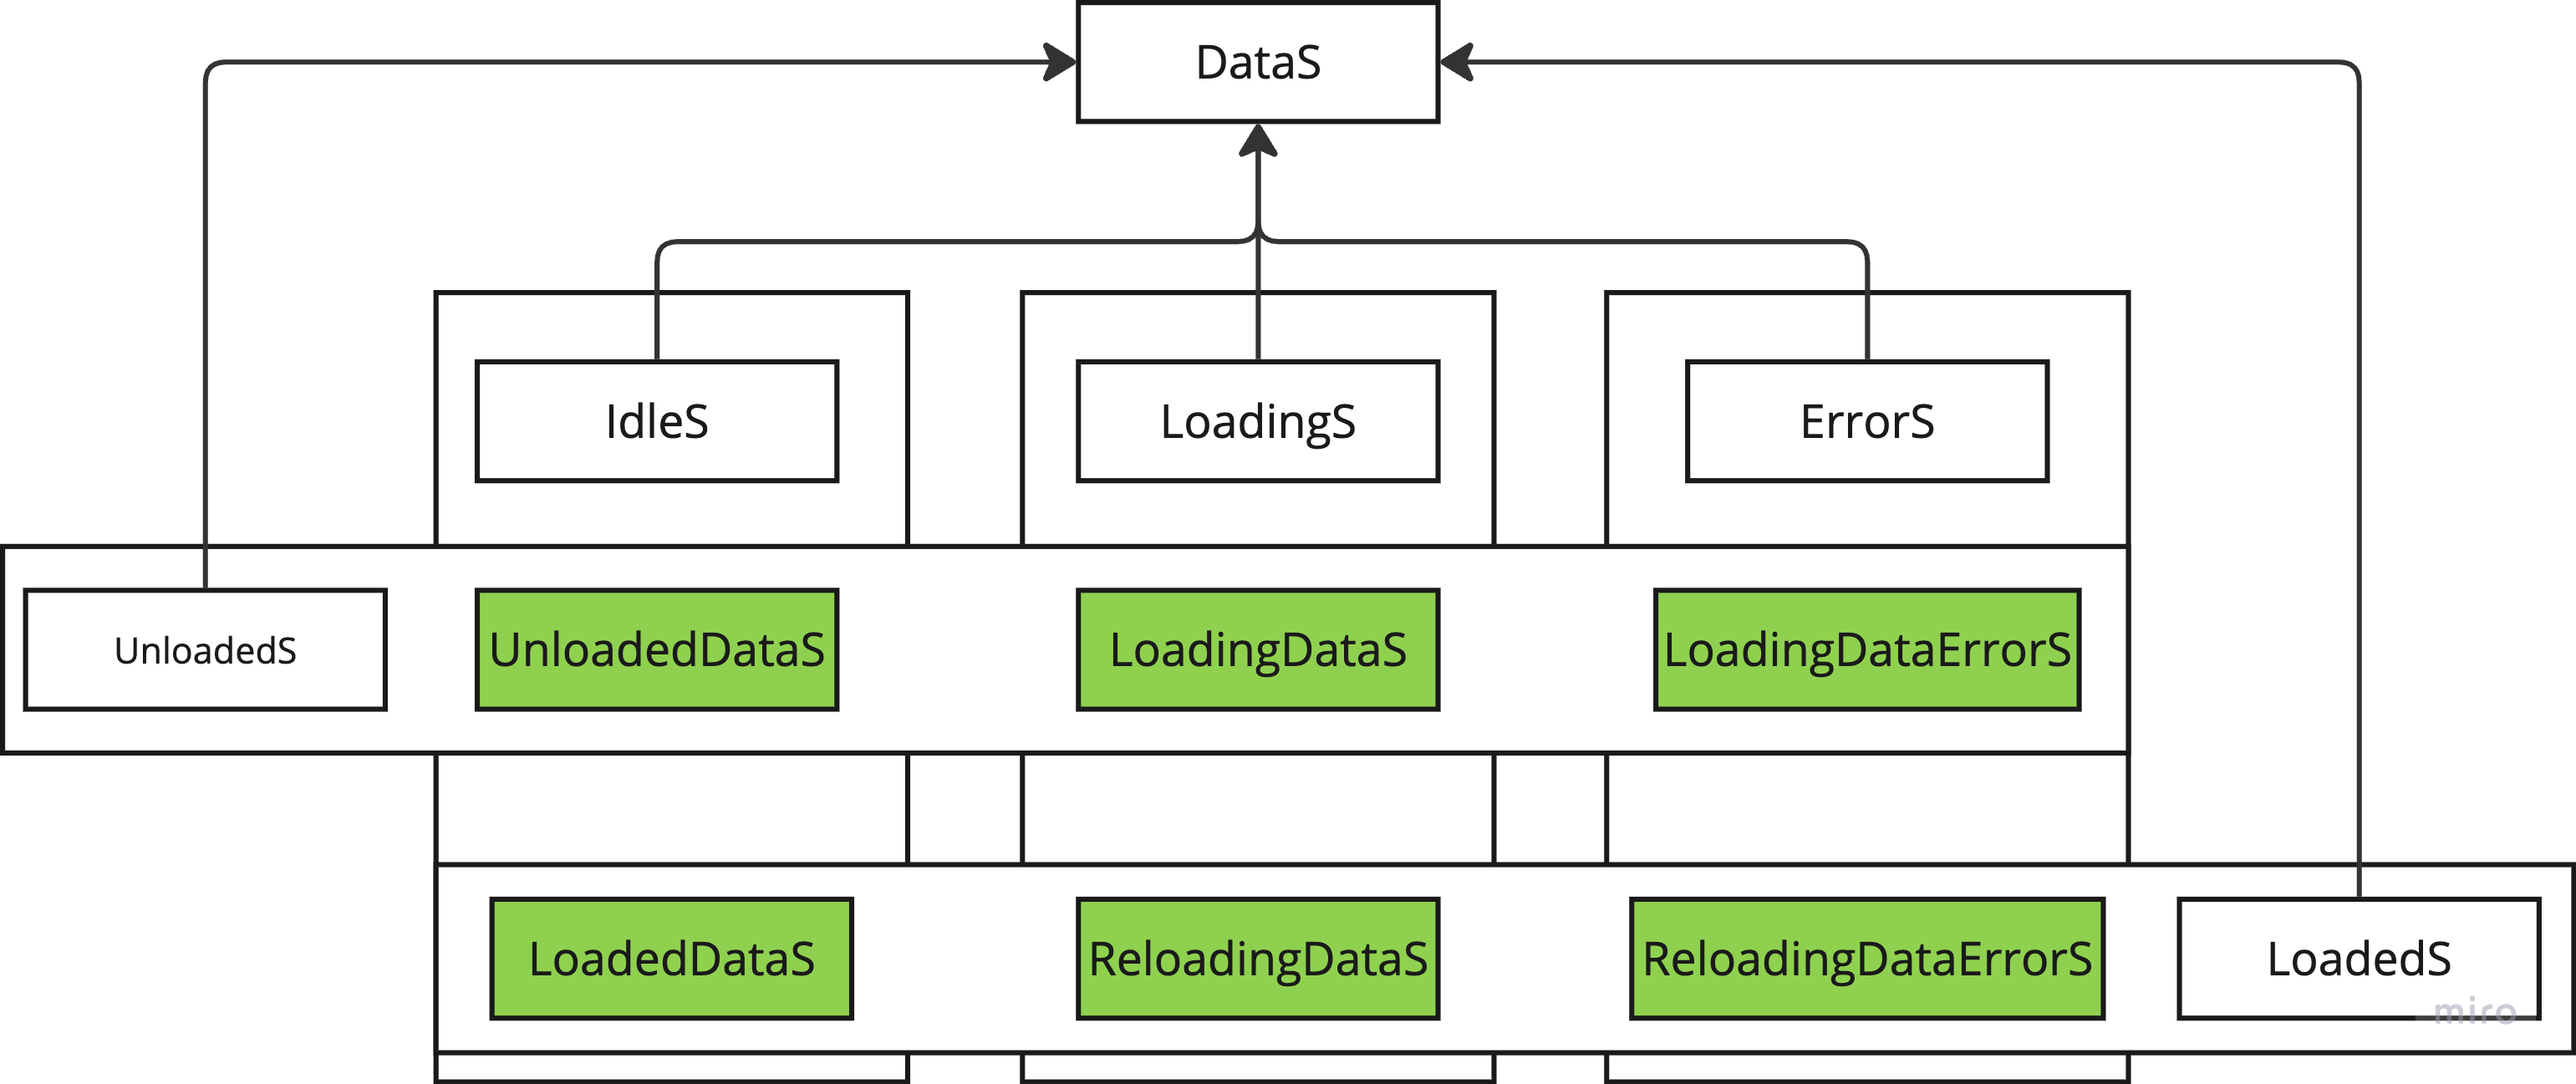
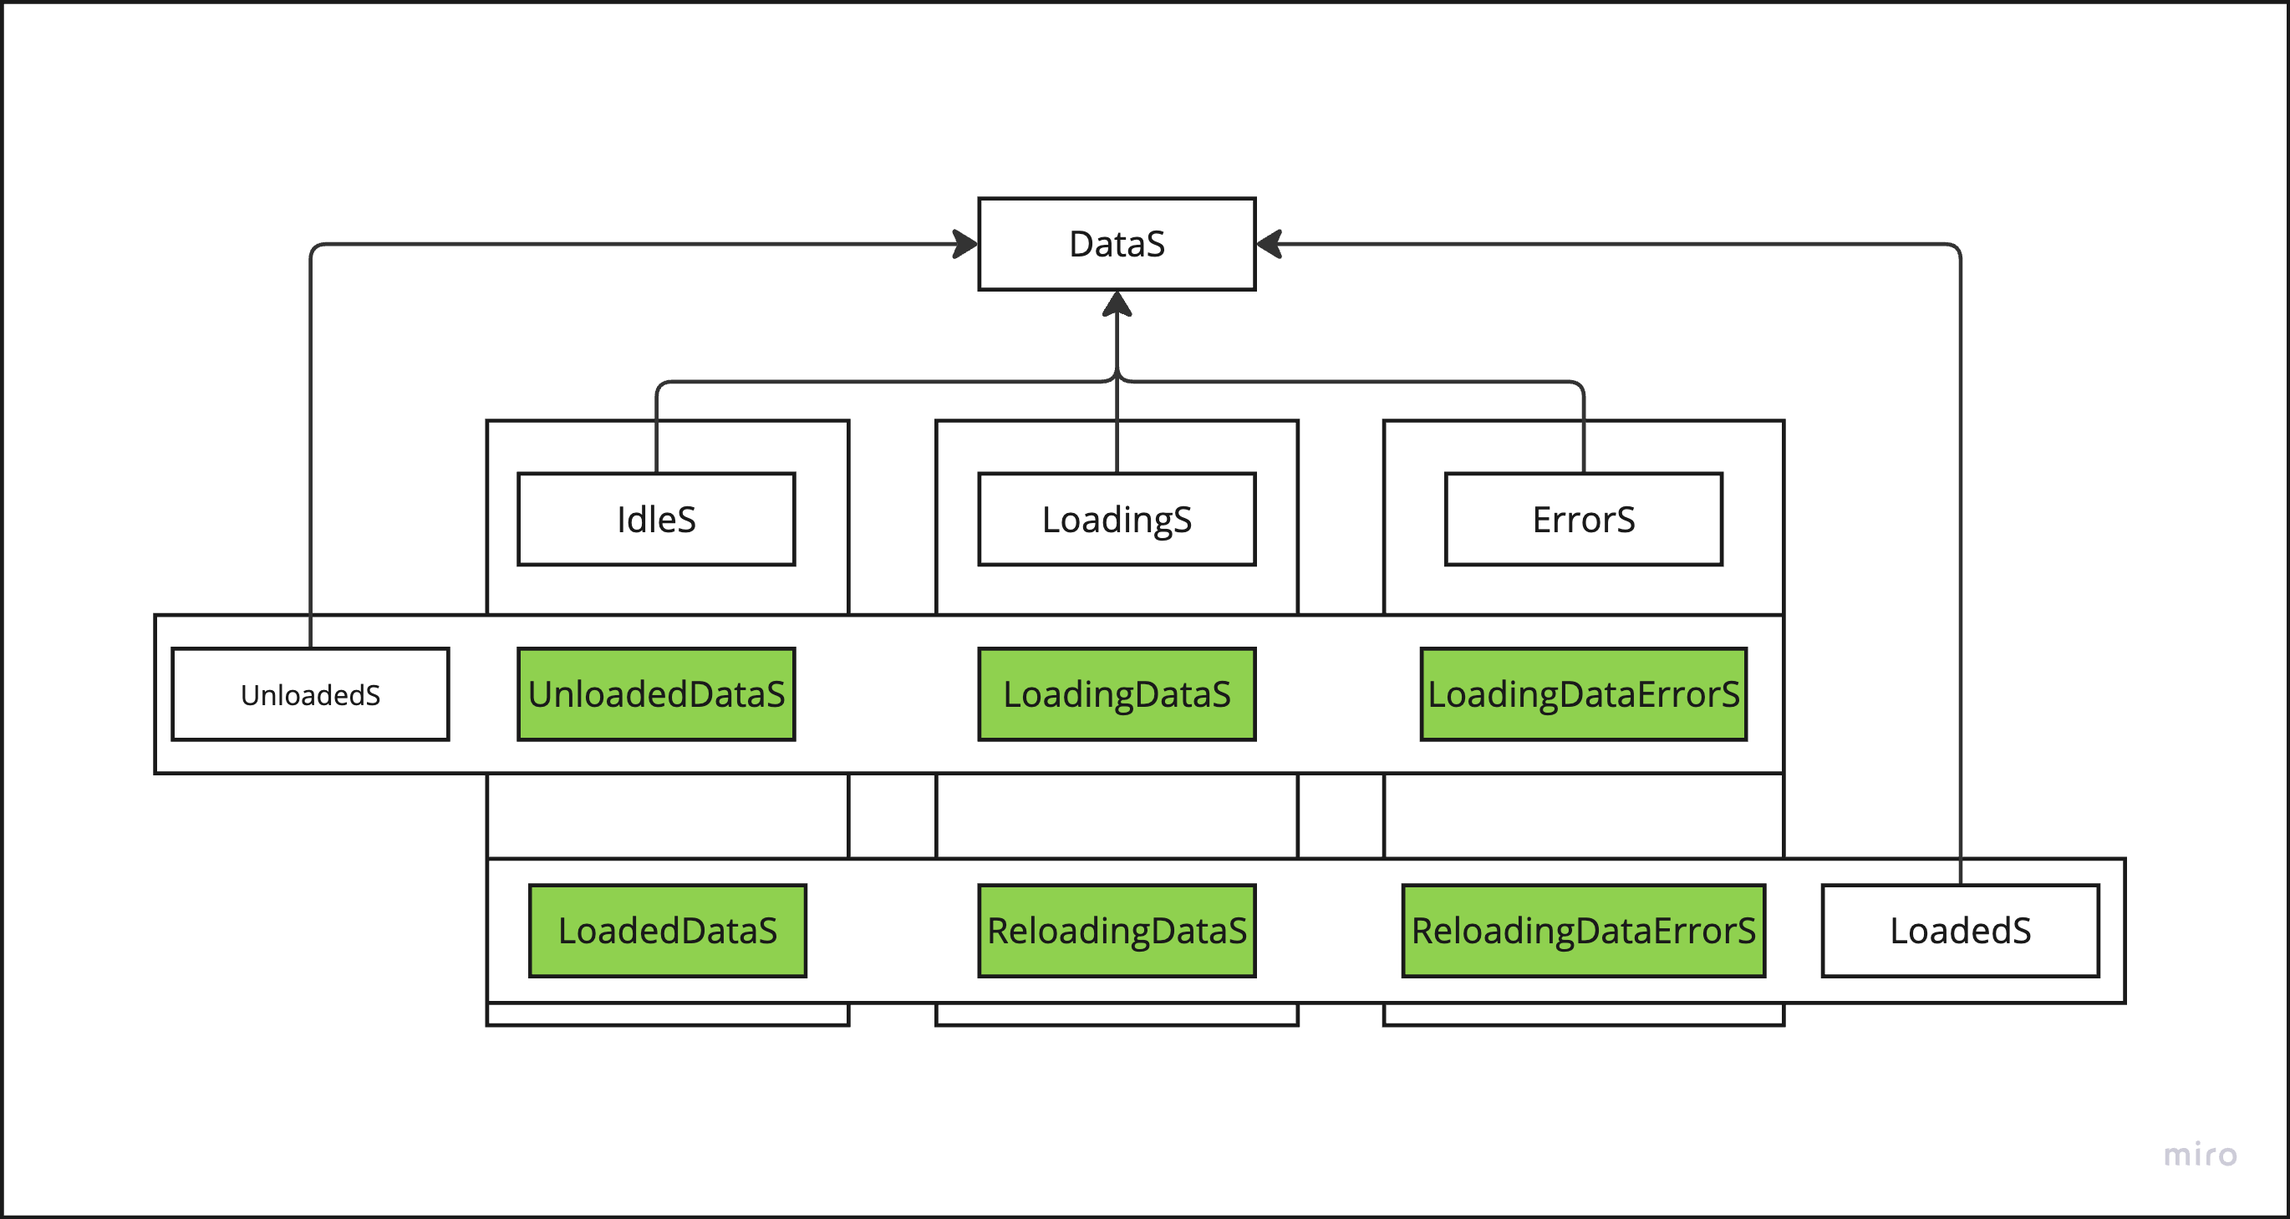
added extensions for DataS:
bool get isUnloaded => this is UnloadedS;

  bool get isLoading => this is LoadingS;

  bool get isLoaded => this is LoadedS;

  bool get isError => this is ErrorS;

Changed region(s): [[0.0, 0.0, 1.0, 1.0], [0.0, 0.0, 0.8686, 0.2776]]

diff --git a/example/lib/main.dart b/example/lib/main.dart
@@ -84,10 +84,10 @@ class HomeScreen extends StatelessWidget {
                   }
                 },
                 builder: (context, state) {
-                  if (state is LoadingDataS<String>) {
+                  if (state.isLoading) {
                     return const Text('Loading animal...');
                   }
-                  if (state is UnloadedS<String>) {
+                  if (state.isUnloaded) {
                     return Column(
                       mainAxisSize: MainAxisSize.min,
                       children: [
@@ -103,11 +103,11 @@ class HomeScreen extends StatelessWidget {
                       ],
                     );
                   }
-                  if (state is LoadedDataS<String, String>) {
+                  if (state.isLoaded) {
                     return Column(
                       mainAxisSize: MainAxisSize.min,
                       children: [
-                        Text(state.data),
+                        Text(state.data!),
                         ElevatedButton(
                           onPressed: () {
                             context
@@ -119,7 +119,7 @@ class HomeScreen extends StatelessWidget {
                       ],
                     );
                   }
-                  if (state is ReloadingDataS<String, String>) {
+                  if (state.isLoading) {
                     return const Text('Loading animal...');
                   }
                   return const SizedBox();

diff --git a/lib/src/data_bloc/data_loaded_state.dart b/lib/src/data_bloc/data_loaded_state.dart
@@ -4,8 +4,13 @@ part of 'data_bloc.dart';
 
 @immutable
 abstract class LoadedS<Data, Params> extends DataS<Data> {
-  const LoadedS(this.data, {this.params});
+  const LoadedS(
+    this.data, {
+    this.params,
+    DataException? error,
+  }) : super(error: error);
 
+  @override
   final Data data;
   final Params? params;
 
@@ -25,7 +30,11 @@ abstract class LoadedS<Data, Params> extends DataS<Data> {
 @immutable
 class LoadedDataS<Data, Params> extends LoadedS<Data, Params>
     implements IdleS<Data> {
-  const LoadedDataS(Data data, {Params? params}) : super(data, params: params);
+  const LoadedDataS(Data data, {Params? params})
+      : super(
+          data,
+          params: params,
+        );
 }
 
 /// Loading
@@ -36,7 +45,11 @@ class ReloadingDataS<Data, Params> extends LoadedS<Data, Params>
     LoadedS<Data, Params> oldState, {
     required this.isNextLoading,
     Params? params,
-  }) : super(oldState.data, params: params);
+  }) : super(
+          oldState.data,
+          params: params,
+          error: oldState.error,
+        );
 
   final bool isNextLoading;
 

diff --git a/lib/src/data_bloc/data_state.dart b/lib/src/data_bloc/data_state.dart
@@ -3,22 +3,38 @@ part of 'data_bloc.dart';
 // ----- Abstraction
 @immutable
 abstract class DataS<Data> {
-  const DataS();
+  const DataS({
+    this.data,
+    this.error,
+  });
+
+  final Data? data;
+
+  final DataException? error;
 }
 
 @immutable
 abstract class IdleS<Data> extends DataS<Data> {
-  const IdleS();
+  const IdleS({
+    Data? data,
+    DataException? error,
+  }) : super(data: data, error: error);
 }
 
 @immutable
 abstract class LoadingS<Data> extends DataS<Data> {
-  const LoadingS();
+  const LoadingS({
+    Data? data,
+    DataException? error,
+  }) : super(data: data, error: error);
 }
 
 @immutable
 abstract class ErrorS<Data> extends DataS<Data> {
-  const ErrorS(this.error);
+  const ErrorS({
+    required this.error,
+    Data? data,
+  }) : super(data: data, error: error);
 
   final DataException error;
 

diff --git a/lib/bloc_toolkit.dart b/lib/bloc_toolkit.dart
@@ -1,5 +1,5 @@
 export 'src/data_bloc/data_bloc.dart' hide InternalDataBloc;
-export 'src/exception/data_exception.dart';
-export 'src/exception/unhandled_data_exception.dart';
+export 'src/exception/exception.dart';
 export 'src/list_bloc/list_bloc.dart';
 export 'src/select_bloc/select_bloc.dart';
+export 'src/utils/utils.dart';

diff --git a/lib/src/utils/data_state_extention.dart b/lib/src/utils/data_state_extention.dart
@@ -1,0 +1,11 @@
+import 'package:bloc_toolkit/bloc_toolkit.dart';
+
+extension DataStateExtention<Data> on DataS<Data> {
+  bool get isUnloaded => this is UnloadedS;
+
+  bool get isLoading => this is LoadingS;
+
+  bool get isLoaded => this is LoadedS;
+
+  bool get isError => this is ErrorS;
+}

diff --git a/lib/src/data_bloc/data_bloc.dart b/lib/src/data_bloc/data_bloc.dart
@@ -14,7 +14,6 @@ part 'data_loaded_state.dart';
 
 part 'data_unloaded_state.dart';
 
-part 'data_extension.dart';
 
 //------ types
 typedef OnLoading<Data> = void Function(Emitter<DataS<Data>> emit);

diff --git a/lib/src/exception/exception.dart b/lib/src/exception/exception.dart
@@ -1,0 +1,2 @@
+export 'data_exception.dart';
+export 'unhandled_data_exception.dart';

diff --git a/lib/src/utils/utils.dart b/lib/src/utils/utils.dart
@@ -1,0 +1,1 @@
+export 'data_state_extention.dart';

diff --git a/README.md b/README.md
@@ -31,31 +31,61 @@ class AnimalBloc extends DataBloc<String, String> {
 ### Build your widgets
 
 ```
-BlocProvider(
-          create: (_) => AnimalBloc(animalRepository: AnimalRepository()),
-          child: BlocConsumer<AnimalBloc, DataS<String>>(
-            listener: (context, state) {
-              if (state is ErrorS<String>) {
-                _showSnackBar(context, 'Loading animal error: ${state.error}');
-              } 
-            },
-            builder: (context, state) {
-              if (state is UnloadedDataS<String>) {
-                return ...
-              }
-              if (state is LoadingDataS<String>) {
-                return ...
-              }
-              if (state is LoadedDataS<String, String>) {
-                return ...
-              }
-              if (state is ReloadingDataS<String, String>) {
-                return ...
-              }
-              return ...
-            },
-          ),
-        )
+    BlocProvider(
+      create: (_) => AnimalBloc(animalRepository: AnimalRepository()),
+      child: BlocConsumer<AnimalBloc, DataS<String>>(
+        listener: (context, state) {
+          if (state is ErrorS<String>) {
+            _showSnackBar(context, 'Loading animal error: ${state.error}');
+          }
+        },
+        builder: (context, state) {
+          if (state is UnloadedDataS<String>) {
+            return ...
+          }
+          if (state is LoadingDataS<String>) {
+            return ...
+          }
+          if (state is LoadedDataS<String, String>) {
+            return ...
+          }
+          if (state is ReloadingDataS<String, String>) {
+            return ...
+          }
+          return ...
+        },
+      ),
+    );
+        
+        
+        
+        ------OR------
+        
+        
+        
+    BlocProvider(
+      create: (_) => AnimalBloc(animalRepository: AnimalRepository()),
+      child: BlocConsumer<AnimalBloc, DataS<String>>(
+        listener: (context, state) {
+          if (state.isError) {
+            _showSnackBar(context, 'Loading animal error: ${state.error!}');
+          }
+        },
+        builder: (context, state) {
+          if (state.isUnloaded) {
+            return ...
+          }
+          if (state.isLoading) {
+            return ...
+          }
+          if (state.isLoaded) {
+            return ...
+          }
+          return ...
+        },
+      ),
+    );       
+        
 ```
 
 ### Add events
